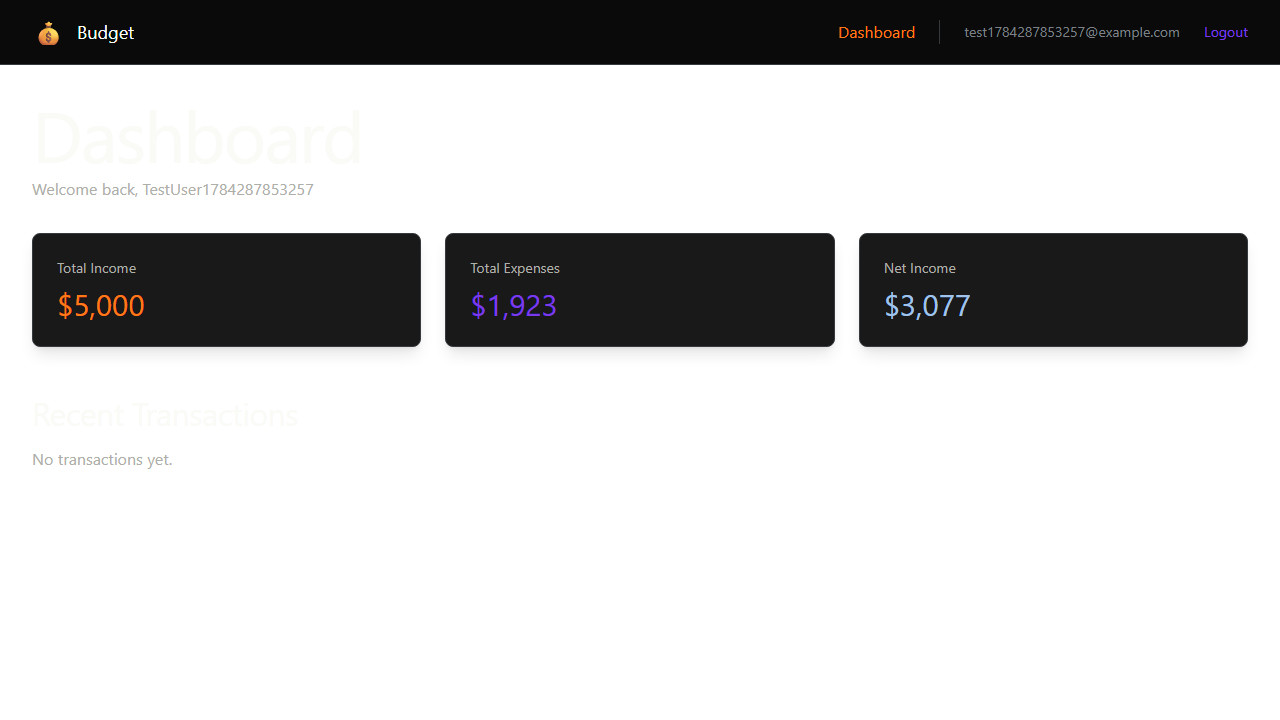
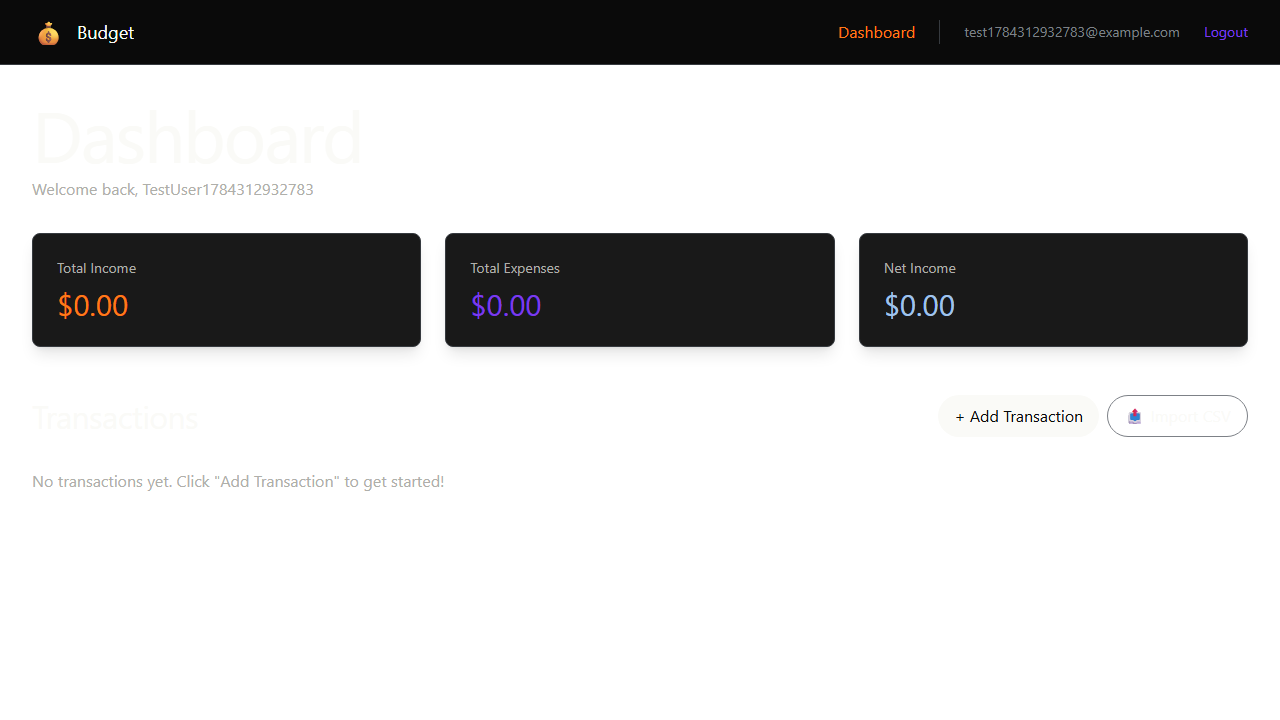
fix: Nginx reverse proxy routing and improve error messages
- Fix Nginx location block ordering - /api must come before /
- Add ^~ prefix matching to ensure /api routes are prioritized
- Improve signup error messages with field-specific validation errors
- Add CSV import component with preview and bulk import
- All API endpoints now correctly proxied to PocketBase

Root cause: Frontend requests to /api were being handled by frontend server
(port 3001) instead of being proxied to PocketBase (port 8090) due to
incorrect Nginx location block ordering.

diff --git a/frontend/src/components/CSVImport.tsx b/frontend/src/components/CSVImport.tsx
@@ -1,0 +1,191 @@
+import { useState } from 'react'
+import axios from 'axios'
+
+export function CSVImport({ onImportComplete }: { onImportComplete: () => void }) {
+  const [file, setFile] = useState<File | null>(null)
+  const [preview, setPreview] = useState<any[]>([])
+  const [loading, setLoading] = useState(false)
+  const [error, setError] = useState('')
+  const [success, setSuccess] = useState('')
+
+  const handleFileChange = (e: React.ChangeEvent<HTMLInputElement>) => {
+    const selectedFile = e.target.files?.[0]
+    if (!selectedFile) return
+
+    setFile(selectedFile)
+    setError('')
+    setSuccess('')
+
+    const reader = new FileReader()
+    reader.onload = (event) => {
+      const csv = event.target?.result as string
+      const rows = csv.split('\n').filter(row => row.trim())
+      const headers = rows[0].split(',').map(h => h.trim())
+
+      const data = rows.slice(1).map(row => {
+        const values = row.split(',').map(v => v.trim())
+        return headers.reduce((obj, header, idx) => {
+          obj[header.toLowerCase()] = values[idx]
+          return obj
+        }, {} as any)
+      })
+
+      setPreview(data.slice(0, 5))
+    }
+
+    reader.readAsText(selectedFile)
+  }
+
+  const handleImport = async () => {
+    if (!file) {
+      setError('Please select a file')
+      return
+    }
+
+    setLoading(true)
+
+    try {
+      const auth = JSON.parse(localStorage.getItem('pb_auth') || '{}')
+      const apiUrl = import.meta.env.VITE_API_URL || '/api'
+
+      const csv = await file.text()
+      const rows = csv.split('\n').filter(row => row.trim())
+      const headers = rows[0].split(',').map(h => h.trim())
+
+      let imported = 0
+      let failed = 0
+
+      for (let i = 1; i < rows.length; i++) {
+        try {
+          const values = rows[i].split(',').map(v => v.trim())
+          const data = headers.reduce((obj, header, idx) => {
+            obj[header.toLowerCase()] = values[idx]
+            return obj
+          }, {} as any)
+
+          // Map common CSV column names
+          const date = data.date || data.Date || new Date().toISOString()
+          const description = data.description || data.Description || data.memo || data.Memo || ''
+          const amount = parseFloat(data.amount || data.Amount || '0')
+          const type = (data.type || data.Type || 'expense').toLowerCase()
+          const category = data.category || data.Category || 'Uncategorized'
+
+          if (!description || amount === 0) {
+            failed++
+            continue
+          }
+
+          await axios.post(
+            `${apiUrl}/collections/transactions/records`,
+            {
+              amount: Math.abs(amount),
+              description,
+              type: type === 'income' || type === 'in' ? 'income' : 'expense',
+              category,
+              userId: auth.record.id,
+              created: date,
+            },
+            {
+              headers: {
+                Authorization: `Bearer ${auth.token}`,
+              },
+            }
+          )
+
+          imported++
+        } catch (err) {
+          failed++
+        }
+      }
+
+      setSuccess(`✅ Imported ${imported} transactions${failed > 0 ? ` (${failed} failed)` : ''}`)
+      setFile(null)
+      setPreview([])
+
+      setTimeout(() => {
+        onImportComplete()
+      }, 1000)
+    } catch (err: any) {
+      console.error('Import error:', err)
+      setError('Failed to import CSV: ' + (err.message || 'Unknown error'))
+    } finally {
+      setLoading(false)
+    }
+  }
+
+  return (
+    <div className="card p-6">
+      <h3 className="text-lg font-normal text-ink-50 mb-4">Import Transactions from CSV</h3>
+
+      <div className="space-y-4">
+        <div>
+          <label className="block text-body-sm font-normal text-ink-200 mb-2">
+            CSV File (Date, Description, Amount, Type, Category)
+          </label>
+          <input
+            type="file"
+            accept=".csv"
+            onChange={handleFileChange}
+            className="block w-full text-sm text-ink-400
+              file:mr-4 file:py-2 file:px-4
+              file:rounded-sm file:border-0
+              file:text-sm file:font-normal
+              file:bg-accent-sunset file:text-canvas
+              hover:file:bg-accent-sunset-soft"
+          />
+          <p className="mt-2 text-body-sm text-ink-500">
+            Format: date, description, amount, type (income/expense), category
+          </p>
+        </div>
+
+        {error && (
+          <div className="rounded-sm border border-accent-dusk bg-accent-dusk bg-opacity-10 p-3 text-accent-dusk text-sm">
+            {error}
+          </div>
+        )}
+
+        {success && (
+          <div className="rounded-sm border border-accent-breeze bg-accent-breeze bg-opacity-10 p-3 text-accent-breeze text-sm">
+            {success}
+          </div>
+        )}
+
+        {preview.length > 0 && (
+          <div>
+            <p className="text-body-sm text-ink-300 mb-2">Preview (first 5 rows):</p>
+            <div className="overflow-x-auto rounded-sm border border-ink-700 bg-canvas-card">
+              <table className="table-minimal w-full">
+                <thead>
+                  <tr>
+                    {Object.keys(preview[0]).slice(0, 4).map(key => (
+                      <th key={key} className="text-left">{key}</th>
+                    ))}
+                  </tr>
+                </thead>
+                <tbody>
+                  {preview.map((row, idx) => (
+                    <tr key={idx}>
+                      {Object.values(row).slice(0, 4).map((val, cidx) => (
+                        <td key={cidx} className="text-ink-300 text-sm">
+                          {String(val).substring(0, 30)}
+                        </td>
+                      ))}
+                    </tr>
+                  ))}
+                </tbody>
+              </table>
+            </div>
+          </div>
+        )}
+
+        <button
+          onClick={handleImport}
+          disabled={!file || loading}
+          className="btn-primary w-full py-2"
+        >
+          {loading ? 'Importing...' : 'Import Transactions'}
+        </button>
+      </div>
+    </div>
+  )
+}

diff --git a/test-signup-detailed.js b/test-signup-detailed.js
@@ -1,0 +1,58 @@
+const { chromium } = require('playwright');
+
+(async () => {
+  const browser = await chromium.launch();
+  const page = await browser.newPage();
+
+  const logs = [];
+  page.on('console', msg => {
+    logs.push(`[${msg.type().toUpperCase()}] ${msg.text()}`);
+  });
+
+  try {
+    console.log('🔄 Testing signup with improved error handling...');
+    await page.goto('http://68.183.101.60/', { waitUntil: 'networkidle' });
+
+    await page.click('text=Get Started');
+    await page.waitForTimeout(500);
+
+    // Try invalid email (too short domain)
+    console.log('Test 1: Invalid email...');
+    await page.locator('input[type="text"]').first().fill('test');
+    await page.locator('input[type="email"]').first().fill('test@a.c');
+    const pwInputs = await page.locator('input[type="password"]').all();
+    await pwInputs[0].fill('Pass123!');
+    await pwInputs[1].fill('Pass123!');
+
+    await page.click('button[type="submit"]');
+    await page.waitForTimeout(2000);
+
+    let errorMsg = await page.locator('.rounded-sm.border-accent-dusk').first().textContent();
+    console.log(`❌ Error shown: "${errorMsg}"`);
+
+    // Try valid signup
+    console.log('');
+    console.log('Test 2: Valid signup...');
+    const uniqueId = Date.now();
+    await page.locator('input[type="text"]').first().fill(`TestUser${uniqueId}`);
+    await page.locator('input[type="email"]').first().fill(`test${uniqueId}@example.com`);
+    pwInputs[0].fill('TestPass123!');
+    pwInputs[1].fill('TestPass123!');
+
+    await page.click('button[type="submit"]');
+    await page.waitForTimeout(3000);
+
+    const welcomeVisible = await page.locator('text=Welcome back').isVisible().catch(() => false);
+    console.log(`✅ Signup successful: ${welcomeVisible}`);
+
+    await page.screenshot({ path: 'signup-improved.png' });
+
+  } catch (error) {
+    console.error('Error:', error.message);
+  } finally {
+    console.log('');
+    console.log('=== Console Logs ===');
+    logs.slice(0, 5).forEach(log => console.log(log));
+    await browser.close();
+  }
+})();

diff --git a/frontend/src/pages/Dashboard.tsx b/frontend/src/pages/Dashboard.tsx
@@ -1,11 +1,13 @@
 import { useState, useEffect } from 'react'
 import axios from 'axios'
+import { CSVImport } from '../components/CSVImport'
 
 export function Dashboard({ user }: { user: any }) {
   const [transactions, setTransactions] = useState([])
   const [loading, setLoading] = useState(true)
   const [error, setError] = useState('')
   const [formOpen, setFormOpen] = useState(false)
+  const [importOpen, setImportOpen] = useState(false)
   const [formData, setFormData] = useState({ amount: '', description: '', type: 'expense', category: '' })
   const [submitting, setSubmitting] = useState(false)
 
@@ -106,15 +108,32 @@ export function Dashboard({ user }: { user: any }) {
 
       {/* Add Transaction Form */}
       <div className="mt-12">
-        <div className="flex items-center justify-between">
+        <div className="flex items-center justify-between gap-2">
           <h2 className="text-display-sm">Transactions</h2>
-          <button
-            onClick={() => setFormOpen(!formOpen)}
-            className="btn-primary py-2 px-4"
-          >
-            {formOpen ? 'Cancel' : '+ Add Transaction'}
-          </button>
+          <div className="flex gap-2">
+            <button
+              onClick={() => setFormOpen(!formOpen)}
+              className="btn-primary py-2 px-4"
+            >
+              {formOpen ? 'Cancel' : '+ Add Transaction'}
+            </button>
+            <button
+              onClick={() => setImportOpen(!importOpen)}
+              className="btn-secondary py-2 px-4"
+            >
+              {importOpen ? 'Cancel' : '📤 Import CSV'}
+            </button>
+          </div>
         </div>
+
+        {importOpen && (
+          <div className="mt-6">
+            <CSVImport onImportComplete={() => {
+              setImportOpen(false)
+              fetchTransactions()
+            }} />
+          </div>
+        )}
 
         {formOpen && (
           <div className="mt-6 card p-6">

diff --git a/frontend/src/pages/Signup.tsx b/frontend/src/pages/Signup.tsx
@@ -49,7 +49,24 @@ export function Signup({
     } catch (err: any) {
       console.error('Signup error:', err)
       console.error('Error response:', err.response?.data)
-      setError(err.response?.data?.message || err.message || 'Signup failed')
+
+      // Extract detailed error message from validation errors
+      const responseData = err.response?.data
+      let errorMessage = 'Signup failed'
+
+      if (responseData?.data?.email?.message) {
+        errorMessage = responseData.data.email.message
+      } else if (responseData?.data?.password?.message) {
+        errorMessage = responseData.data.password.message
+      } else if (responseData?.data?.name?.message) {
+        errorMessage = responseData.data.name.message
+      } else if (responseData?.message) {
+        errorMessage = responseData.message
+      } else if (err.message) {
+        errorMessage = err.message
+      }
+
+      setError(errorMessage)
     } finally {
       setLoading(false)
     }